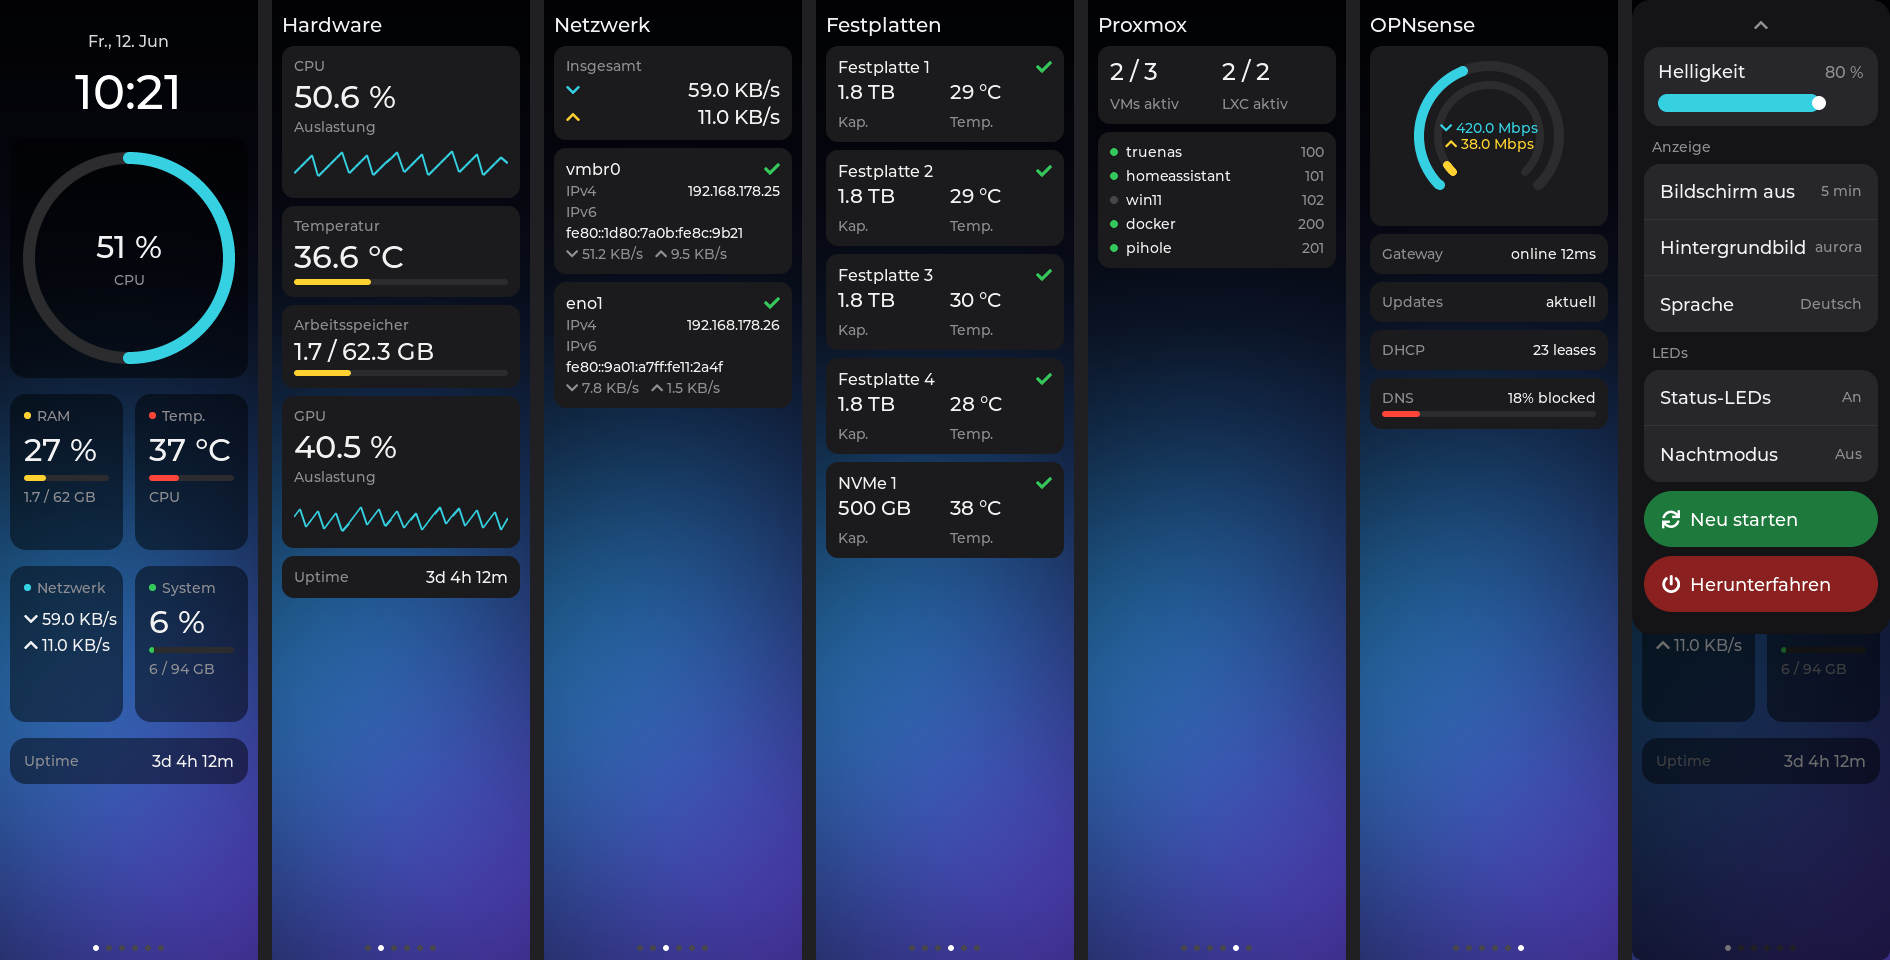
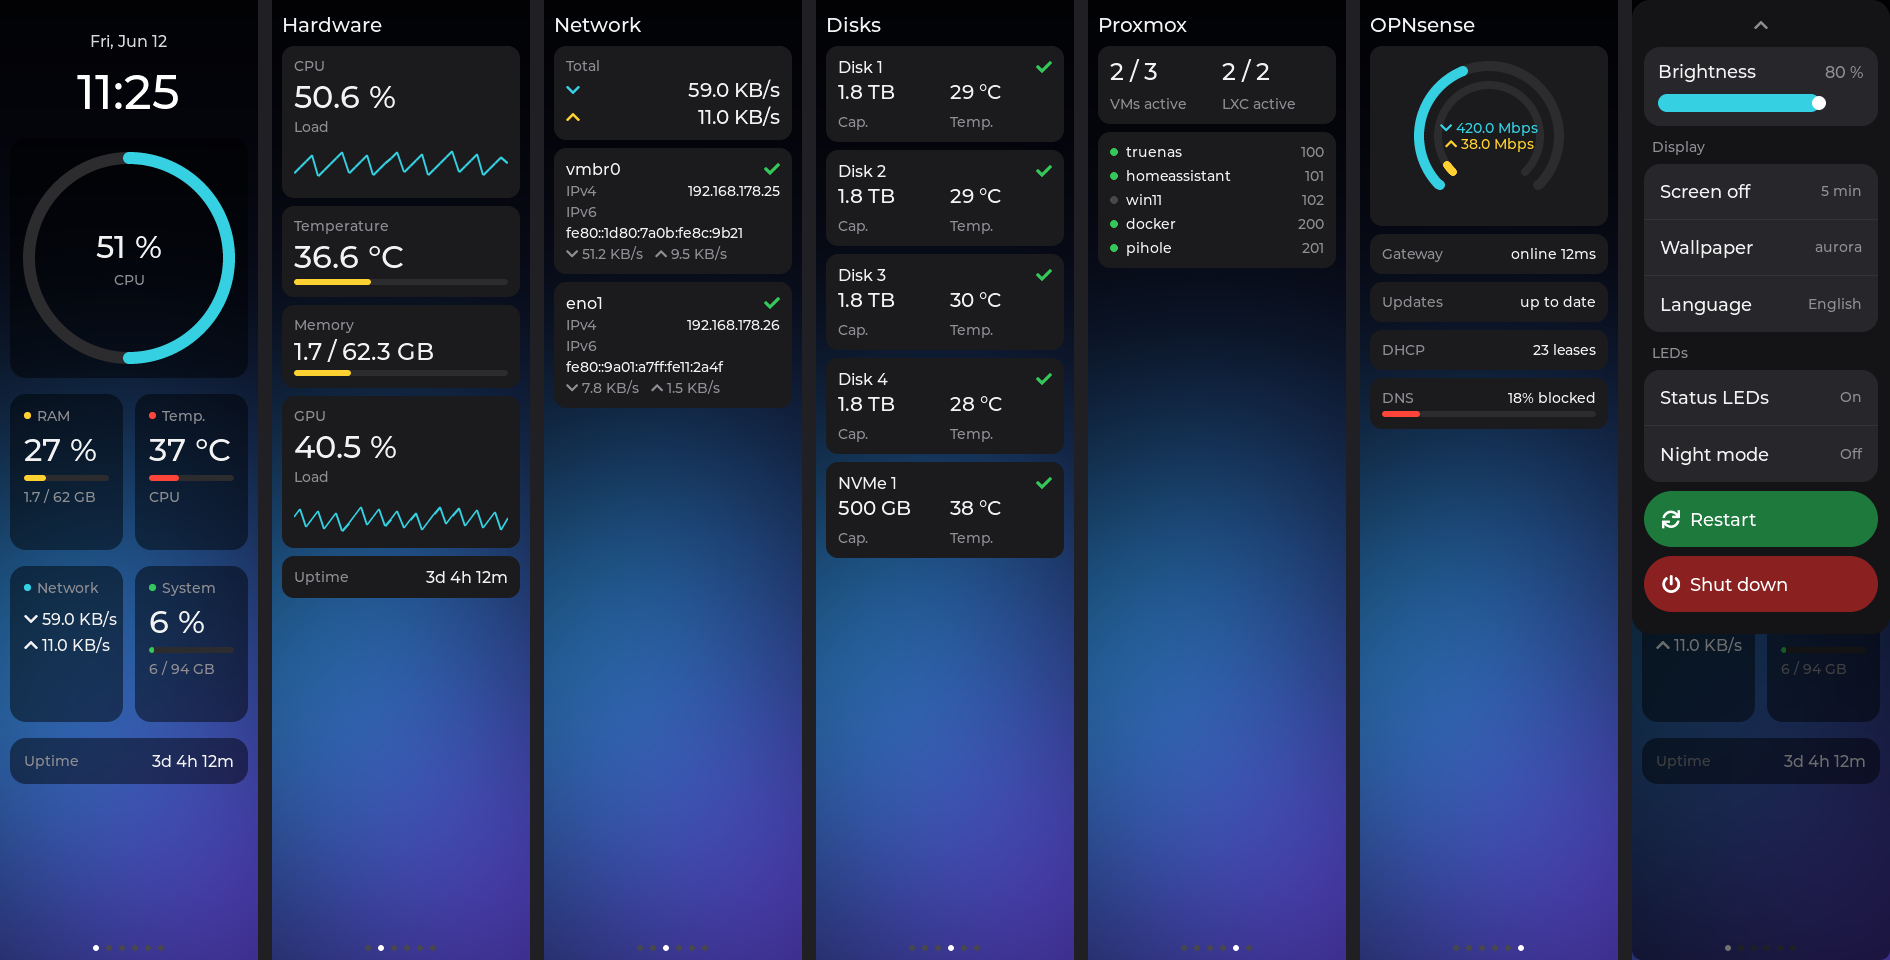
Render the README montage in English (mock now applies the state language)

diff --git a/test/render_mock.c b/test/render_mock.c
@@ -3,6 +3,7 @@
  * Convert the .raw files to PNG with tools/raw2png.py. */
 #include "lvgl/lvgl.h"
 #include "gui.h"
+#include "i18n.h"
 #include <stdio.h>
 #include <stdlib.h>
 #include <string.h>
@@ -44,7 +45,7 @@ int main(void)
         .brightness = 80,
         .backlight_timeout = 300,
         .wallpaper = "aurora",
-        .language = "de",
+        .language = "en", /* the README montage is rendered from this */
     };
     gui_setup_t setup = {
         .show_opnsense = 1,
@@ -53,6 +54,7 @@ int main(void)
         .wan_max_mbps = 1000,
         .state = &state,
     };
+    i18n_set_language(state.language); /* main.c does this for the daemon */
     gui_create_dashboard(&setup);
 
     /* --- mock data, roughly matching the UGOS marketing screens --- */
@@ -112,7 +114,7 @@ int main(void)
     gui_update_pve(&pv);
 
     opnsense_stats_t op = {
-        .gw_rtt_ms = 12, .gw_status = "online", .update_status = "aktuell",
+        .gw_rtt_ms = 12, .gw_status = "online", .update_status = "up to date",
         .dhcp_leases = 23, .dns_blocked_pct = 18,
     };
     gui_update_opnsense(&op);